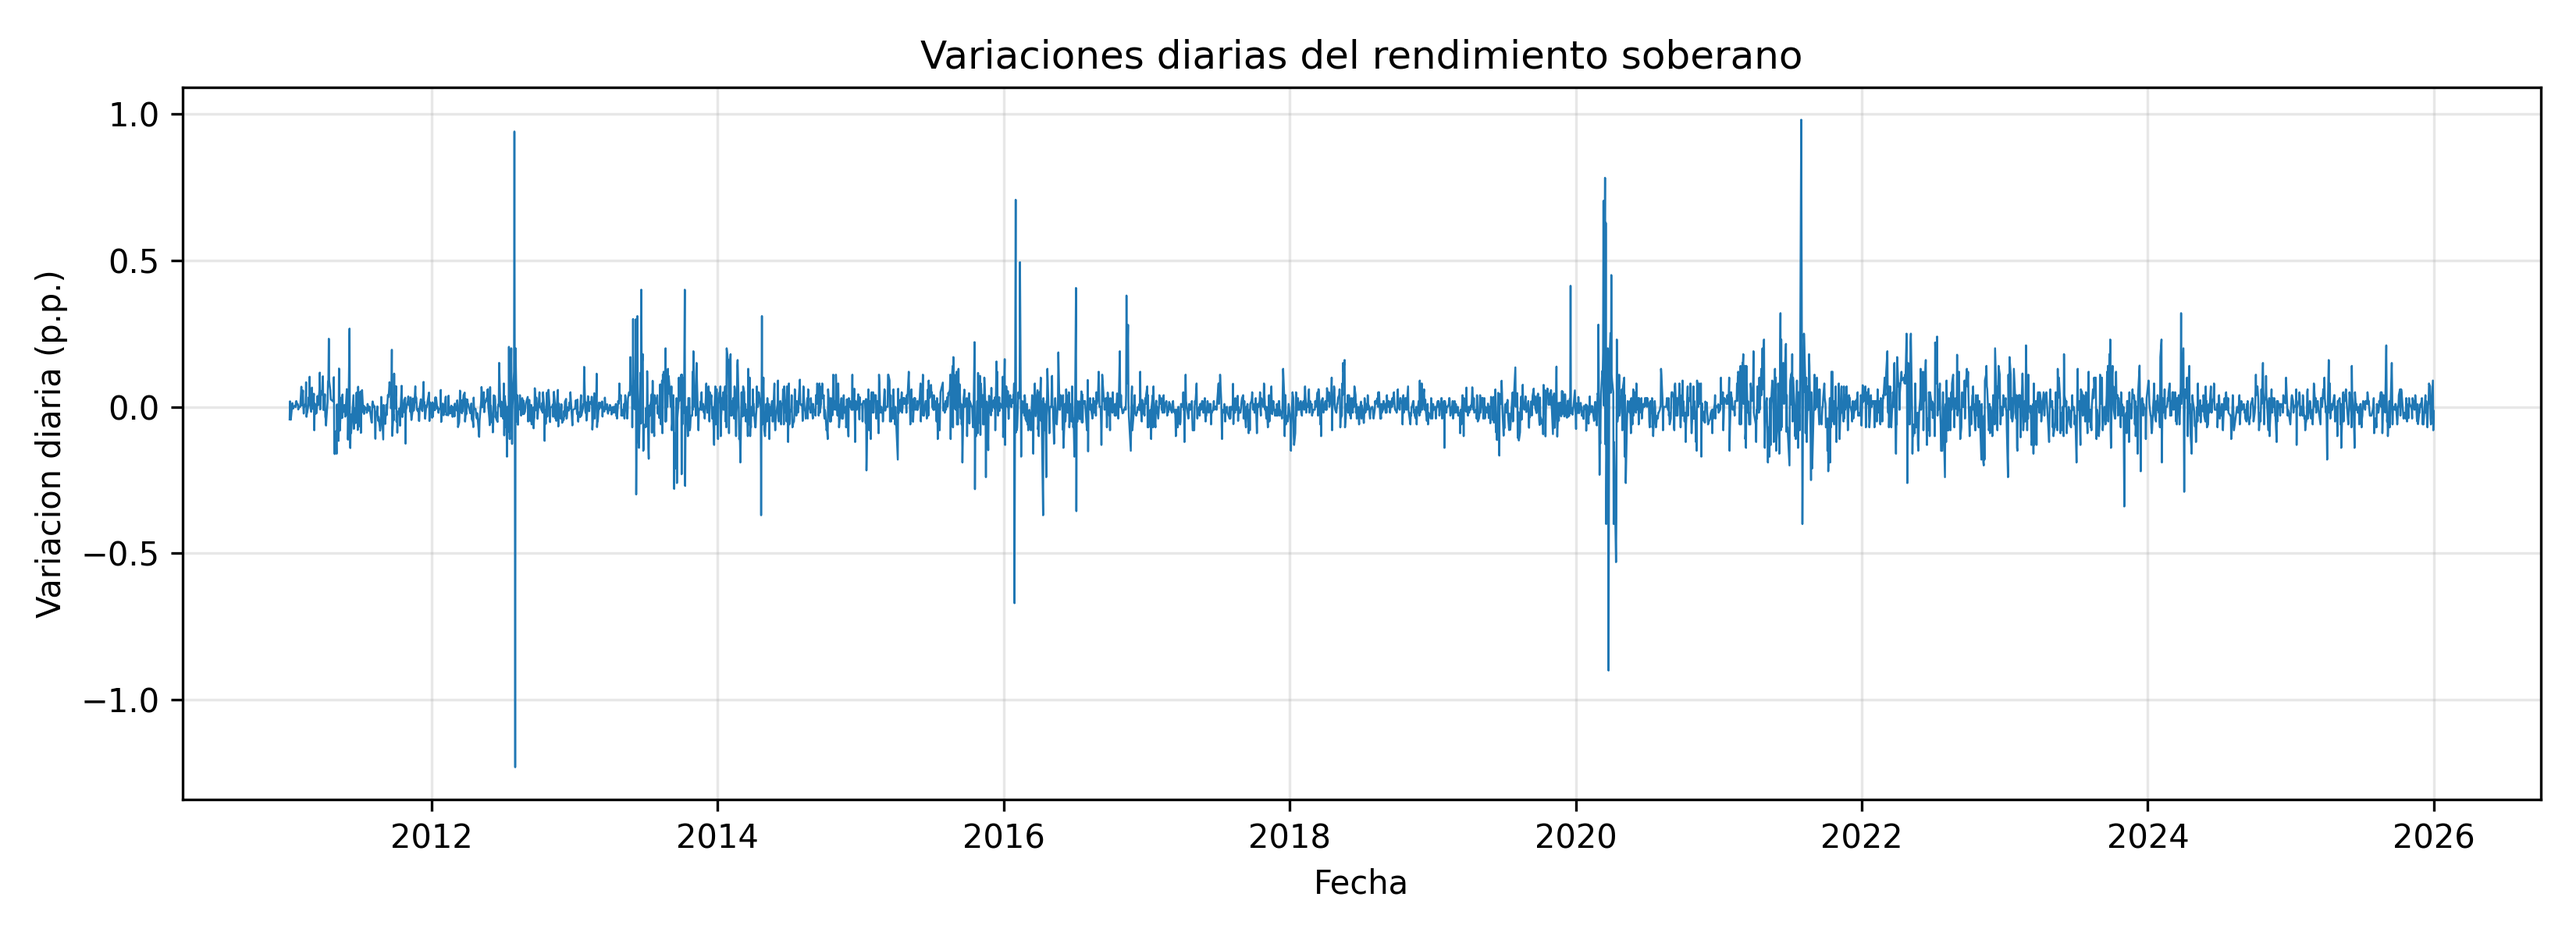
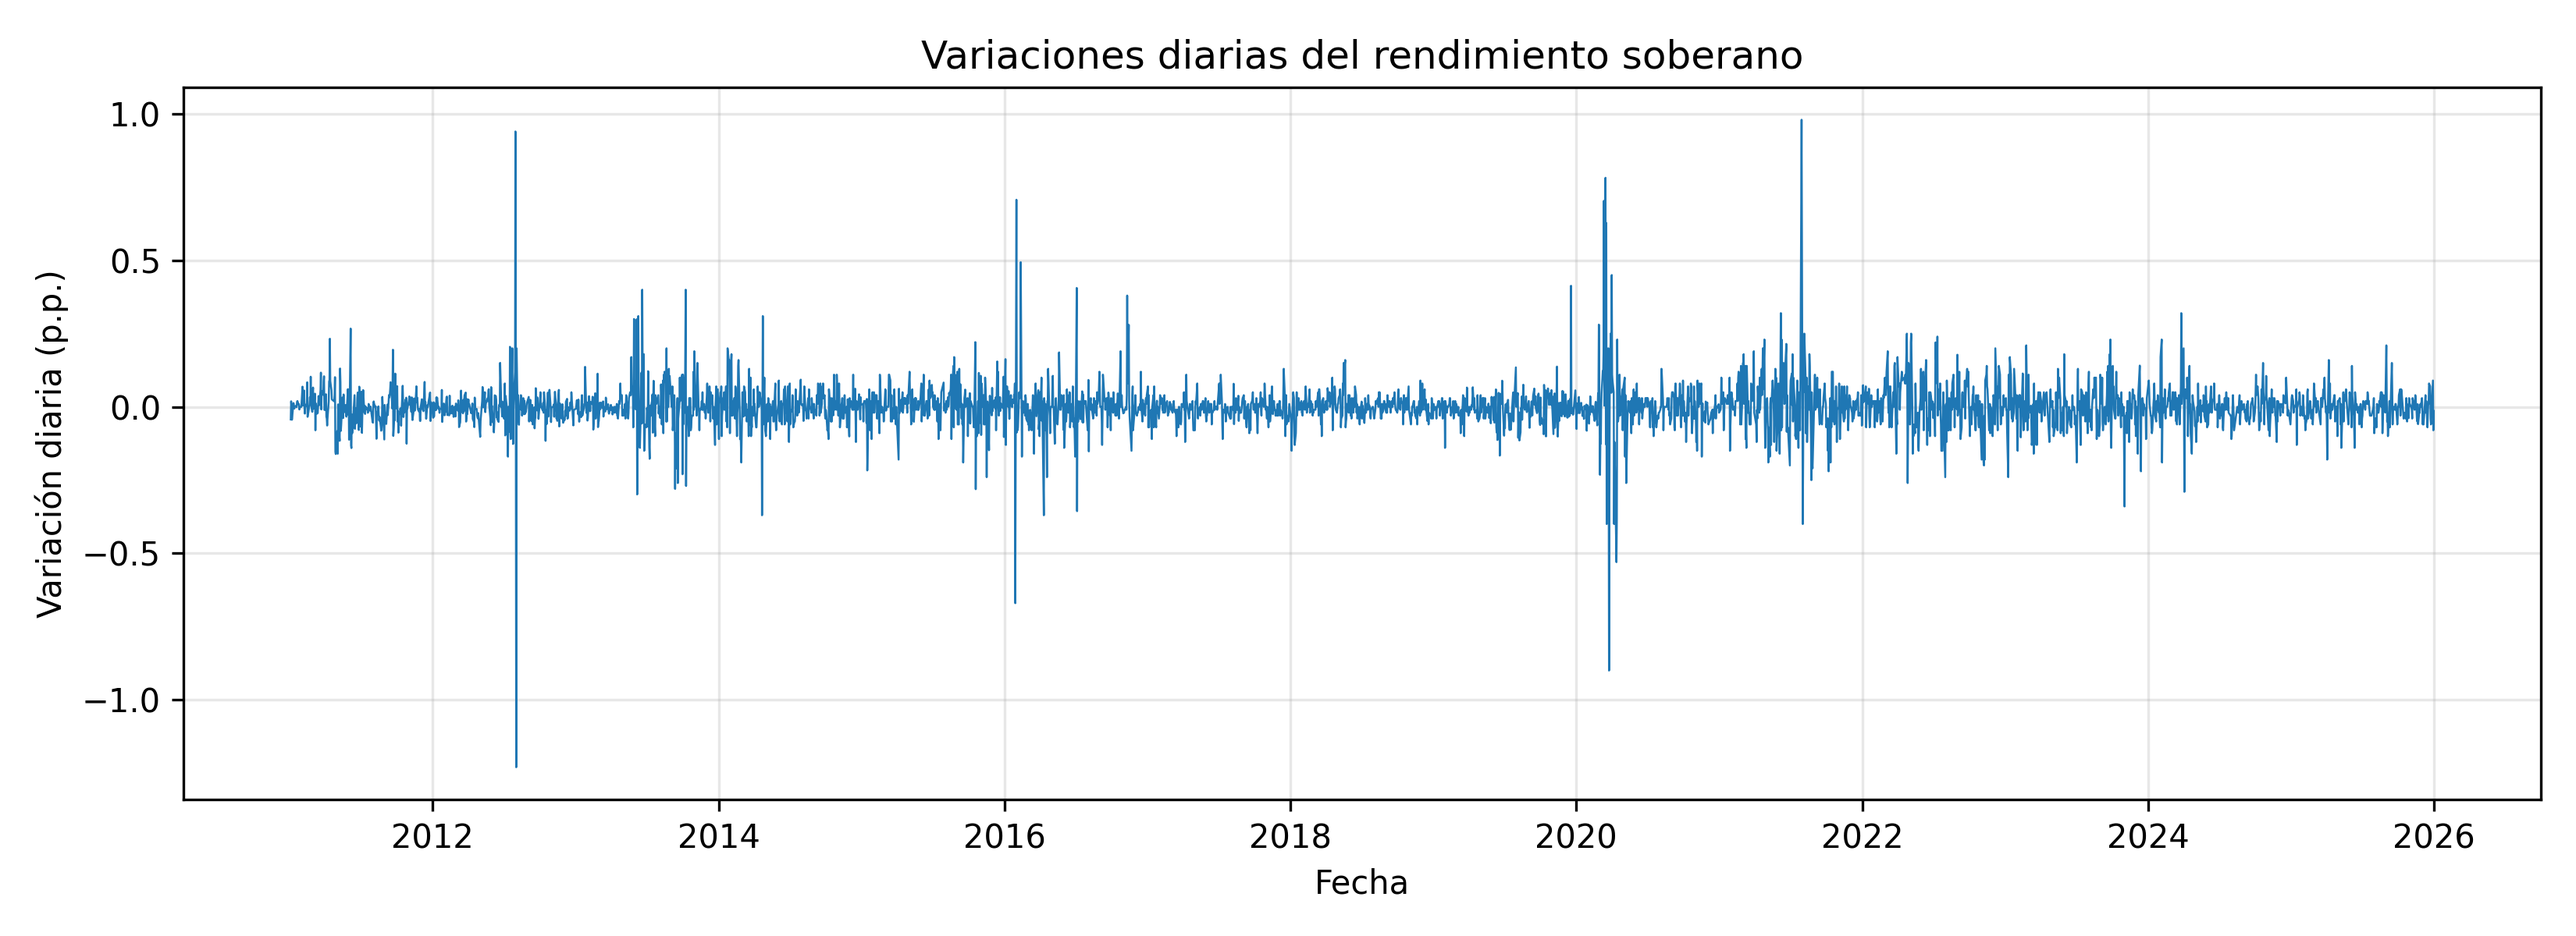
Correccion: incidencias al diseno vigente y etiquetas de figuras

diff --git a/codigo/04_analisis.py b/codigo/04_analisis.py
@@ -39,10 +39,10 @@ NIV = ["Y_rendimiento_soberano", "X1_tasa_referencia", "X2_treasury_10a",
        "X3_riesgo_pais", "X4_tasa_interbancaria"]
 DIF = ["d_" + v for v in NIV]
 
-ETIQ = {"Y_rendimiento_soberano": "Rendimiento del bono peruano a 10 anos",
+ETIQ = {"Y_rendimiento_soberano": "Rendimiento del bono peruano a 10 años",
         "X1_tasa_referencia":     "Tasa de referencia del BCRP",
-        "X2_treasury_10a":        "Bonos del Tesoro EE.UU. a 10 anos",
-        "X3_riesgo_pais":         "Riesgo pais (EMBIG Peru)",
+        "X2_treasury_10a":        "Bonos del Tesoro EE.UU. a 10 años",
+        "X3_riesgo_pais":         "Riesgo país (EMBIG Perú)",
         "X4_tasa_interbancaria":  "Tasa interbancaria en soles"}
 
 
@@ -132,14 +132,14 @@ def main():
     plt.figure(figsize=(11, 4))
     plt.plot(d.fecha, d.Y_rendimiento_soberano - d.X2_treasury_10a, linewidth=.9)
     plt.xlabel("Fecha"); plt.ylabel("Puntos porcentuales")
-    plt.title("Spread del bono peruano sobre el Tesoro de EE.UU. a 10 anos")
+    plt.title("Spread del bono peruano sobre el Tesoro de EE.UU. a 10 años")
     plt.grid(alpha=.3)
     figura("figura2_spread_soberano")
 
     # --- Figura 3: volatilidad de las variaciones
     plt.figure(figsize=(11, 4))
     plt.plot(dd.fecha, dd.d_Y_rendimiento_soberano, linewidth=.6)
-    plt.xlabel("Fecha"); plt.ylabel("Variacion diaria (p.p.)")
+    plt.xlabel("Fecha"); plt.ylabel("Variación diaria (p.p.)")
     plt.title("Variaciones diarias del rendimiento soberano")
     plt.grid(alpha=.3)
     figura("figura3_variaciones")
@@ -147,9 +147,9 @@ def main():
     # --- Figura 4: dispersion frente al riesgo pais
     plt.figure(figsize=(6.5, 5))
     plt.scatter(dd.d_X3_riesgo_pais, dd.d_Y_rendimiento_soberano, s=6, alpha=.4)
-    plt.xlabel("Variacion diaria del riesgo pais (p.p.)")
-    plt.ylabel("Variacion diaria del rendimiento (p.p.)")
-    plt.title("Riesgo pais y rendimiento soberano")
+    plt.xlabel("Variación diaria del riesgo país (p.p.)")
+    plt.ylabel("Variación diaria del rendimiento (p.p.)")
+    plt.title("Riesgo país y rendimiento soberano")
     plt.grid(alpha=.3)
     figura("figura4_riesgo_vs_rendimiento")
 

diff --git a/salidas/tabla1_descriptiva.tex b/salidas/tabla1_descriptiva.tex
@@ -5,10 +5,10 @@
 \toprule
  & N & Media & Desv. tip. & Minimo & Mediana & Maximo \\
 \midrule
-Rendimiento del bono peruano a 10 anos & 3692.0000 & 5.8299 & 1.0560 & 3.4900 & 5.7400 & 8.8000 \\
+Rendimiento del bono peruano a 10 años & 3692.0000 & 5.8299 & 1.0560 & 3.4900 & 5.7400 & 8.8000 \\
 Tasa de referencia del BCRP & 3692.0000 & 3.8355 & 1.7735 & 0.2500 & 4.0000 & 7.7500 \\
-Bonos del Tesoro EE.UU. a 10 anos & 3692.0000 & 2.5586 & 1.0187 & 0.5080 & 2.3730 & 4.9910 \\
-Riesgo pais (EMBIG Peru) & 3692.0000 & 1.6851 & 0.3528 & 0.9100 & 1.6300 & 3.7200 \\
+Bonos del Tesoro EE.UU. a 10 años & 3692.0000 & 2.5586 & 1.0187 & 0.5080 & 2.3730 & 4.9910 \\
+Riesgo país (EMBIG Perú) & 3692.0000 & 1.6851 & 0.3528 & 0.9100 & 1.6300 & 3.7200 \\
 Tasa interbancaria en soles & 3692.0000 & 3.8614 & 1.7790 & 0.0900 & 4.1500 & 7.9200 \\
 \bottomrule
 \end{tabular}

diff --git a/salidas/tabla2_adf.tex b/salidas/tabla2_adf.tex
@@ -6,10 +6,10 @@
  & p-valor en nivel & p-valor en variacion & Orden \\
 Variable &  &  &  \\
 \midrule
-Rendimiento del bono peruano a 10 anos & 0.2128 & 0.0000 & I(1) \\
+Rendimiento del bono peruano a 10 años & 0.2128 & 0.0000 & I(1) \\
 Tasa de referencia del BCRP & 0.4749 & 0.0000 & I(1) \\
-Bonos del Tesoro EE.UU. a 10 anos & 0.6533 & 0.0000 & I(1) \\
-Riesgo pais (EMBIG Peru) & 0.0003 & 0.0000 & I(0) \\
+Bonos del Tesoro EE.UU. a 10 años & 0.6533 & 0.0000 & I(1) \\
+Riesgo país (EMBIG Perú) & 0.0003 & 0.0000 & I(0) \\
 Tasa interbancaria en soles & 0.6058 & 0.0000 & I(1) \\
 \bottomrule
 \end{tabular}

diff --git a/incidencias_fuente.md b/incidencias_fuente.md
@@ -4,20 +4,29 @@ Registro de limitaciones tecnicas de las fuentes consultadas (numeral 2.4.3).
 
 ## 1. BCRPData — sin incidencias
 
-La via API respondio HTTP 200 en las 13 series consultadas, sin bloqueos.
-El detalle de cada solicitud esta en `log_ejecucion.txt`.
+La via API respondio HTTP 200 en las cinco series diarias consultadas, sin
+bloqueos ni restricciones. El detalle de cada solicitud, con fecha, hora y
+nombre oficial de la serie devuelta, esta en `log_ejecucion.txt`.
 
-## 2. SMV — exploracion documentada el 2026-09-26
+| Variable | Codigo | Serie oficial |
+|---|---|---|
+| Y | `PD31893DD` | Rendimiento del Bono del gobierno peruano a 10 anos (en S/) |
+| X1 | `PD12301MD` | Tasa de Referencia de la Politica Monetaria |
+| X2 | `PD04719XD` | Bonos del Tesoro EE.UU. - 10 anos (%) |
+| X3 | `PD04709XD` | Spread - EMBIG Peru (pbs) |
+| X4 | `PD04692MD` | Interbancaria, S/ |
 
-Se exploro el portal de la Superintendencia del Mercado de Valores buscando
-la tasa de colocacion por emision y la clasificacion de riesgo, variables que
-no existen como serie en BCRPData.
+## 2. SMV — exploracion documentada el 2026-09-23
+
+Se exploro el portal de la Superintendencia del Mercado de Valores buscando la
+tasa de colocacion por emision y la clasificacion de riesgo del emisor, dos
+variables del temario que no existen como serie en BCRPData.
 
 **Resultado de la exploracion:**
 
 - `https://www.smv.gob.pe/` responde HTTP 200, pero redirige a
-  `https://www.gob.pe/smv`, que es la ficha institucional de la SMV dentro del
-  portal unico del Estado, no el sistema de informacion.
+  `https://www.gob.pe/smv`, la ficha institucional de la SMV dentro del portal
+  unico del Estado, no el sistema de informacion.
 - No existe `robots.txt`: la ruta `/robots.txt` devuelve la pagina de inicio
   completa (270 843 caracteres, con `<!DOCTYPE html>`), comportamiento propio
   de una aplicacion de pagina unica.
@@ -30,16 +39,22 @@ no existen como serie en BCRPData.
 - La mesa de partes y el acceso de colaboradores exigen autenticacion
   (`mvnet.smv.gob.pe/mvnet/Autenticacion/frmInicio.aspx`).
 
-**Conclusion.** El SIMV no expone las emisiones en un formato accesible por
-via automatizada con las herramientas propias del ciclo V. Corresponde al
-supuesto del numeral 2.4.3: contenido dinamico servido por sesion.
+**Conclusion.** El SIMV no expone las emisiones en un formato accesible por via
+automatizada con las herramientas propias del ciclo V. Corresponde al supuesto
+del numeral 2.4.3: contenido dinamico servido por sesion.
 
 **Decision adoptada.** No se solicita sustitucion de fuente, porque no procede:
 la Unidad I exige una sola via automatizada (numeral 2.4.1) y la via API de
-BCRPData la cumple integramente, cubriendo las cuatro variables sustantivas
-del modelo. Las dos variables no disponibles se sustituyen por proxies
-declarados en Materiales y metodos: el spread bancario corporativo en lugar de
-la tasa de colocacion, y el EMBIG Peru en lugar de la clasificacion de riesgo.
+BCRPData la cumple integramente, cubriendo las cinco variables sustantivas del
+modelo.
+
+Las dos variables no disponibles se sustituyen por proxies declarados en
+Materiales y metodos:
+
+| Variable del temario | Sustituto | Justificacion |
+|---|---|---|
+| Tasa de colocacion por emision | `Y_rendimiento_soberano` (`PD31893DD`) | Tasa base del mercado de bonos peruano: ninguna emision corporativa local se coloca por debajo del soberano al mismo plazo |
+| Clasificacion de riesgo del emisor | `X3_riesgo_pais` (`PD04709XD`) | Riesgo crediticio puesto en precio por el mercado, en lugar de calificado por una agencia privada |
 
 **Etica del rastreo (numeral 2.4.8).** Todas las solicitudes se realizaron con
 User-Agent identificable, con pausas entre peticiones, sobre informacion
